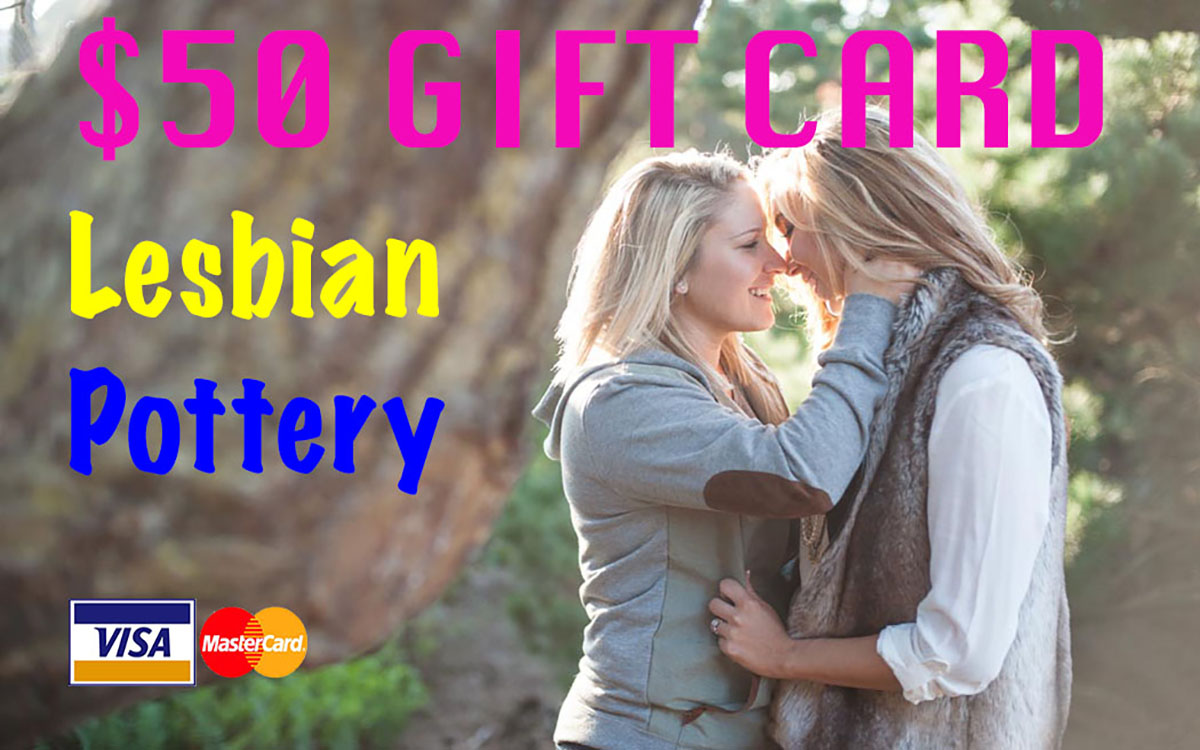
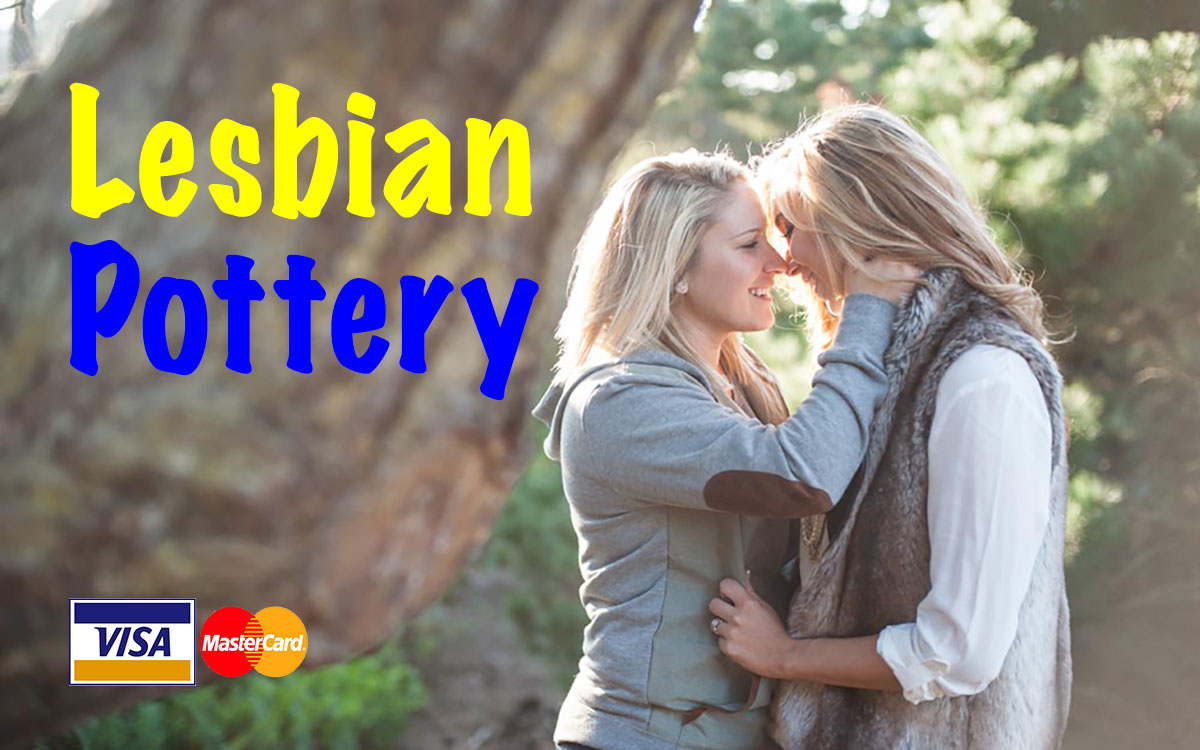
added borders, changed gift card images

Changed region(s): [[0.0308, 0.0307, 0.5858, 0.6747], [0.6167, 0.0307, 0.925, 0.2147], [0.0617, 0.7973, 0.2467, 0.92]]

diff --git a/public/home.html b/public/home.html
@@ -44,39 +44,79 @@
 
     <div class="row" id="row3"></div>
 
-    <div class="row" id="row4">
-    	<div class="col-lg-3 col-md-3 col-sm-3 col-sx-3" id="card1"></div>
-    	<div class="col-lg-3 col-md-3 col-sm-3 col-sx-3" id="card2"></div>
-    	<div class="col-lg-3 col-md-3 col-sm-3 col-sx-3" id="card3"></div>
-    	<div class="col-lg-3 col-md-3 col-sm-3 col-sx-3" id="card4"></div>
+    <div class="row" id="row4a">
+    	<div class="col-lg-3 col-md-3 col-sm-3 col-sx-3">
+    		<img src="assets/images/gc1.jpeg" id="card1">
+    	</div>
+    	<div class="col-lg-3 col-md-3 col-sm-3 col-sx-3">
+    		<img src="assets/images/gc2.png" id="card2">
+    	</div>
+    	<div class="col-lg-3 col-md-3 col-sm-3 col-sx-3">
+    		<img src="assets/images/gc3.png" id="card3">
+    	</div>
+    	<div class="col-lg-3 col-md-3 col-sm-3 col-sx-3">
+    		<img src="assets/images/gc4.png" id="card4">
+    	</div>
     </div>
 
-    <div class="row" id="row5">
-    	<div class="col-lg-3 col-md-3 col-sm-3 col-sx-3" id="card5"></div>
-    	<div class="col-lg-3 col-md-3 col-sm-3 col-sx-3" id="card6"></div>
-    	<div class="col-lg-3 col-md-3 col-sm-3 col-sx-3" id="card7"></div>
-    	<div class="col-lg-3 col-md-3 col-sm-3 col-sx-3" id="card8"></div>
+    <div class="row" id="row4b">
+    	<div class="col-lg-3 col-md-3 col-sm-3 col-sx-3">
+    		<img src="assets/images/gc5.png" id="card5">
+    	</div>
+    	<div class="col-lg-3 col-md-3 col-sm-3 col-sx-3">
+    		<img src="assets/images/gc6.gif" id="card6">
+    	</div>
+    	<div class="col-lg-3 col-md-3 col-sm-3 col-sx-3">
+    		<img src="assets/images/gc7.jpg" id="card7">
+    	</div>
+    	<div class="col-lg-3 col-md-3 col-sm-3 col-sx-3">
+    		<img src="assets/images/gc8.jpg" id="card8">
+    	</div>
     </div>
     
-    <div class="row" id="row6">
-    	<div class="col-lg-3 col-md-3 col-sm-3 col-sx-3" id="card9"></div>
-    	<div class="col-lg-3 col-md-3 col-sm-3 col-sx-3" id="card10"></div>
-    	<div class="col-lg-3 col-md-3 col-sm-3 col-sx-3" id="card11"></div>
-    	<div class="col-lg-3 col-md-3 col-sm-3 col-sx-3" id="card12"></div>
+    <div class="row" id="row4c">
+    	<div class="col-lg-3 col-md-3 col-sm-3 col-sx-3">
+    		<img src="assets/images/gc9.jpg" id="card9">
+    	</div>
+    	<div class="col-lg-3 col-md-3 col-sm-3 col-sx-3">
+    		<img src="assets/images/gc10.jpg" id="card10">
+    	</div>
+    	<div class="col-lg-3 col-md-3 col-sm-3 col-sx-3">
+    		<img src="assets/images/gc11.jpg" id="card11">
+    	</div>
+    	<div class="col-lg-3 col-md-3 col-sm-3 col-sx-3">
+    		<img src="assets/images/gc12.jpeg" id="card12">
+    	</div>
     </div>
 
-    <div class="row" id="row7">
-    	<div class="col-lg-3 col-md-3 col-sm-3 col-sx-3" id="card13"></div>
-    	<div class="col-lg-3 col-md-3 col-sm-3 col-sx-3" id="card14"></div>
-    	<div class="col-lg-3 col-md-3 col-sm-3 col-sx-3" id="card15"></div>
-    	<div class="col-lg-3 col-md-3 col-sm-3 col-sx-3" id="card16"></div>
+    <div class="row" id="row4d">
+    	<div class="col-lg-3 col-md-3 col-sm-3 col-sx-3">
+    		<img src="assets/images/gc13.jpg" id="card13">
+    	</div>
+    	<div class="col-lg-3 col-md-3 col-sm-3 col-sx-3">
+    		<img src="assets/images/gc14.png" id="card14">
+    	</div>
+    	<div class="col-lg-3 col-md-3 col-sm-3 col-sx-3">
+    		<img src="assets/images/gc15.jpg" id="card15">
+    	</div>
+    	<div class="col-lg-3 col-md-3 col-sm-3 col-sx-3">
+    		<img src="assets/images/gc16.png" id="card16">
+    	</div>
     </div>
 
-    <div class="row" id="row8">
-    	<div class="col-lg-3 col-md-3 col-sm-3 col-sx-3" id="card17"></div>
-    	<div class="col-lg-3 col-md-3 col-sm-3 col-sx-3" id="card18"></div>
-    	<div class="col-lg-3 col-md-3 col-sm-3 col-sx-3" id="card19"></div>
-    	<div class="col-lg-3 col-md-3 col-sm-3 col-sx-3" id="card20"></div>
+    <div class="row" id="row4e">
+    	<div class="col-lg-3 col-md-3 col-sm-3 col-sx-3">
+    		<img src="assets/images/gc17.jpg" id="card17">
+    	</div>
+    	<div class="col-lg-3 col-md-3 col-sm-3 col-sx-3">
+    		<img src="assets/images/gc18.jpg" id="card18">
+    	</div>
+    	<div class="col-lg-3 col-md-3 col-sm-3 col-sx-3">
+    		<img src="assets/images/gc19.jpg" id="card19">
+    	</div>
+    	<div class="col-lg-3 col-md-3 col-sm-3 col-sx-3">
+    		<img src="assets/images/gc20.jpg" id="card20">
+    	</div>
     </div>
 
 

diff --git a/public/assets/css/style.css b/public/assets/css/style.css
@@ -97,10 +97,6 @@ body {
 	height:20px;
 }
 
-/*#row8 {
-	height:10px;
-}
-*/
 legend {
 	color:black;
 	font-family:arial;
@@ -176,10 +172,6 @@ fieldset{
 	height:40px;
 }
 
-/*#row11a{
-	height:20px;
-}*/
-
 label{
 	font-size:16px;
 	font-weight:normal;
@@ -194,142 +186,10 @@ label{
 }
 
 
-#card1 {
-	background-image:url("../images/gc1.jpeg");
-	height:200px;
-	background-repeat:no-repeat;
-	background-size: 90%;
-}
-
-#card2 {
-	background-image:url("../images/gc2.png");
-	height:200px;
-	background-repeat:no-repeat;
-	background-size: 90%;
-}
-
-#card3 {
-	background-image:url("../images/gc3.png");
-	height:200px;
-	background-repeat:no-repeat;
-	background-size: 90%;
-}
-
-#card4 {
-	background-image:url("../images/gc4.png");
-	height:200px;
-	background-repeat:no-repeat;
-	background-size: 90%;
-}
-
-#card5 {
-	background-image:url("../images/gc5.png");
-	height:200px;
-	background-repeat:no-repeat;
-	background-size: 90%;
-}
-
-#card6 {
-	background-image:url("../images/gc6.gif");
-	height:200px;
-	background-repeat:no-repeat;
-	background-size: 90%;
-}
-
-#card7 {
-	background-image:url("../images/gc7.jpg");
-	height:200px;
-	background-repeat:no-repeat;
-	background-size: 90%;
-}
-
-#card8 {
-	background-image:url("../images/gc8.jpg");
-	height:200px;
-	background-repeat:no-repeat;
-	background-size: 90%;
-}
-
-#card9 {
-	background-image:url("../images/gc9.jpg");
-	height:200px;
-	background-repeat:no-repeat;
-	background-size: 90%;
-}
-
-#card10 {
-	background-image:url("../images/gc10.jpg");
-	height:200px;
-	background-repeat:no-repeat;
-	background-size: 90%;
-}
-
-#card11 {
-	background-image:url("../images/gc11.jpg");
-	height:200px;
-	background-repeat:no-repeat;
-	background-size: 90%;
-}
-
-#card12 {
-	background-image:url("../images/gc12.jpeg");
-	height:200px;
-	background-repeat:no-repeat;
-	background-size: 90%;
-}
-
-#card13 {
-	background-image:url("../images/gc13.jpg");
-	height:200px;
-	background-repeat:no-repeat;
-	background-size: 90%;
-}
-
-#card14 {
-	background-image:url("../images/gc14.png");
-	height:200px;
-	background-repeat:no-repeat;
-	background-size: 90%;
-}
-
-#card15 {
-	background-image:url("../images/gc15.jpg");
-	height:200px;
-	background-repeat:no-repeat;
-	background-size: 90%;
-}
-
-#card16 {
-	background-image:url("../images/gc16.png");
-	height:200px;
-	background-repeat:no-repeat;
-	background-size: 90%;
-}
-
-#card17 {
-	background-image:url("../images/gc17.jpg");
-	height:200px;
-	background-repeat:no-repeat;
-	background-size: 90%;
-}
-
-#card18 {
-	background-image:url("../images/gc18.jpg");
-	height:200px;
-	background-repeat:no-repeat;
-	background-size: 90%;
-}
-
-#card19 {
-	background-image:url("../images/gc19.jpg");
-	height:200px;
-	background-repeat:no-repeat;
-	background-size: 90%;
-}
-
-#card20 {
-	background-image:url("../images/gc20.jpg");
-	height:200px;
-	background-repeat:no-repeat;
-	background-size: 90%;
+#card1, #card2, #card3, #card4, #card5, #card6, #card7, #card8, #card9, #card10, #card11, #card12, #card13, #card14, #card15, #card16, #card17, #card18, #card19, #card20 {
+	width:100%;
+	border-style:solid;
+	border-color:black;
+	border-width:1px;
+	margin-bottom:25px;
 }
